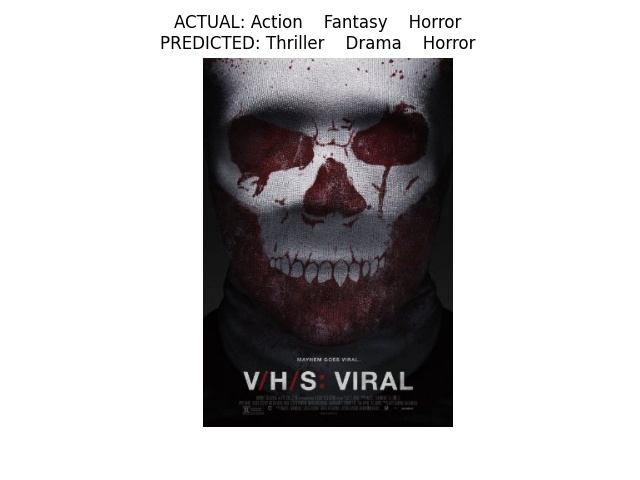
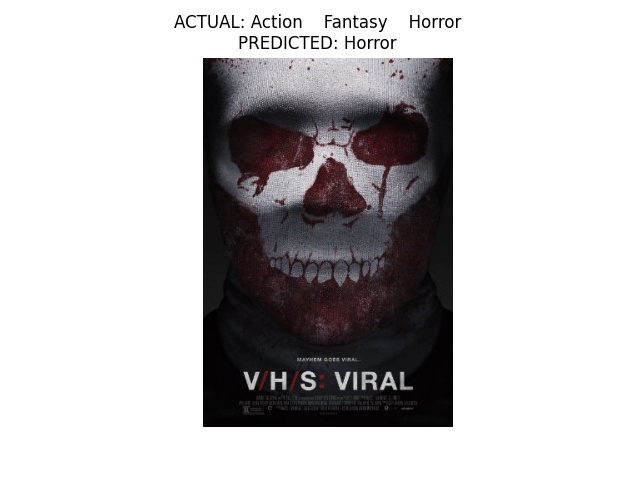
fix usage

Changed region(s): [[0.25, 0.0625, 0.625, 0.125], [0.6562, 0.0625, 0.75, 0.125]]

diff --git a/src/model_usage.py b/src/model_usage.py
@@ -14,7 +14,7 @@ genres = ['Action', 'Adventure', 'Animation', 'Biography',
        'Sci-Fi', 'Short', 'Sport', 'Thriller', 'War', 'Western']
 
 
-def predict_by_sample(model_path, img_path):
+def predict_by_sample(model_path, img_path, th = 0.3):
     # initialize the computation device
     device = torch.device('cuda' if torch.cuda.is_available() else 'cpu')
     #intialize the model
@@ -42,15 +42,17 @@ def predict_by_sample(model_path, img_path):
     outputs = model(image[None, ...])
     outputs = torch.sigmoid(outputs)
     outputs = outputs.detach().cpu()
-    sorted_indices = np.argsort(outputs[0])
-    top3 = sorted_indices[-3:]
+    outputs = list(map(lambda x: x if x >= th else 0, outputs[0]))
+    sorted_indices = np.argsort(outputs)
+    top_count = sum(list(map(lambda x: x != 0, outputs)))
+    topn = sorted_indices[-top_count:]
     string_predicted = ''
-    for i in range(len(top3)):
-        string_predicted += f"{genres[top3[i]]}    "
+    for i in range(len(topn)):
+        string_predicted += f"{genres[topn[i]]}    "
     return string_predicted
          
 
-def predict_by_test(data_path, model_path):
+def predict_by_test(data_path, model_path, th = 0.3):
     # initialize the computation device
     device = torch.device('cuda' if torch.cuda.is_available() else 'cpu')
     #intialize the model
@@ -84,11 +86,13 @@ def predict_by_test(data_path, model_path):
         outputs = model(image)
         outputs = torch.sigmoid(outputs)
         outputs = outputs.detach().cpu()
-        sorted_indices = np.argsort(outputs[0])
-        top3 = sorted_indices[-3:]
+        outputs = list(map(lambda x: x if x >= th else 0, outputs[0]))
+        sorted_indices = np.argsort(outputs)
+        top_count = sum(list(map(lambda x: x != 0, outputs)))
+        topn = sorted_indices[-top_count:]
         string_predicted, string_actual = '', ''
-        for i in range(len(top3)):
-            string_predicted += f"{genres[top3[i]]}    "
+        for i in range(len(topn)):
+            string_predicted += f"{genres[topn[i]]}    "
         for i in range(len(target_indices)):
             string_actual += f"{genres[target_indices[i]]}    "
         image = image.squeeze(0)
@@ -101,4 +105,4 @@ def predict_by_test(data_path, model_path):
         plt.show()
 
 #print(predict_by_sample("../models/model.pth", "../data/Images/tt3957716.jpg"))
-#predict_by_test('../data/preproc_res/prep_train4.csv',"../models/model.pth")
+predict_by_test('../data/preproc_res/prep_train4.csv',"../models/model.pth", 0.3)

diff --git a/src/metrics.py b/src/metrics.py
@@ -112,7 +112,7 @@ checkpoint = torch.load('../models/model.pth')
 # load model weights state_dict
 model.load_state_dict(checkpoint['model_state_dict'])
 
-accur = check_accuracy(valid_loader, model, device, 0.3, valid_data)
-p = check_precision(valid_loader, model, device, 0.3, valid_data)
-r = check_recall(valid_loader, model, device, 0.3, valid_data)
-f1 = check_f1(valid_loader, model, device, 0.3, valid_data, p, r)
+#accur = check_accuracy(valid_loader, model, device, 0.3, valid_data)
+p = check_precision(valid_loader, model, device, 0.5, valid_data)
+r = check_recall(valid_loader, model, device, 0.5, valid_data)
+f1 = check_f1(valid_loader, model, device, 0.5, valid_data, p, r)
